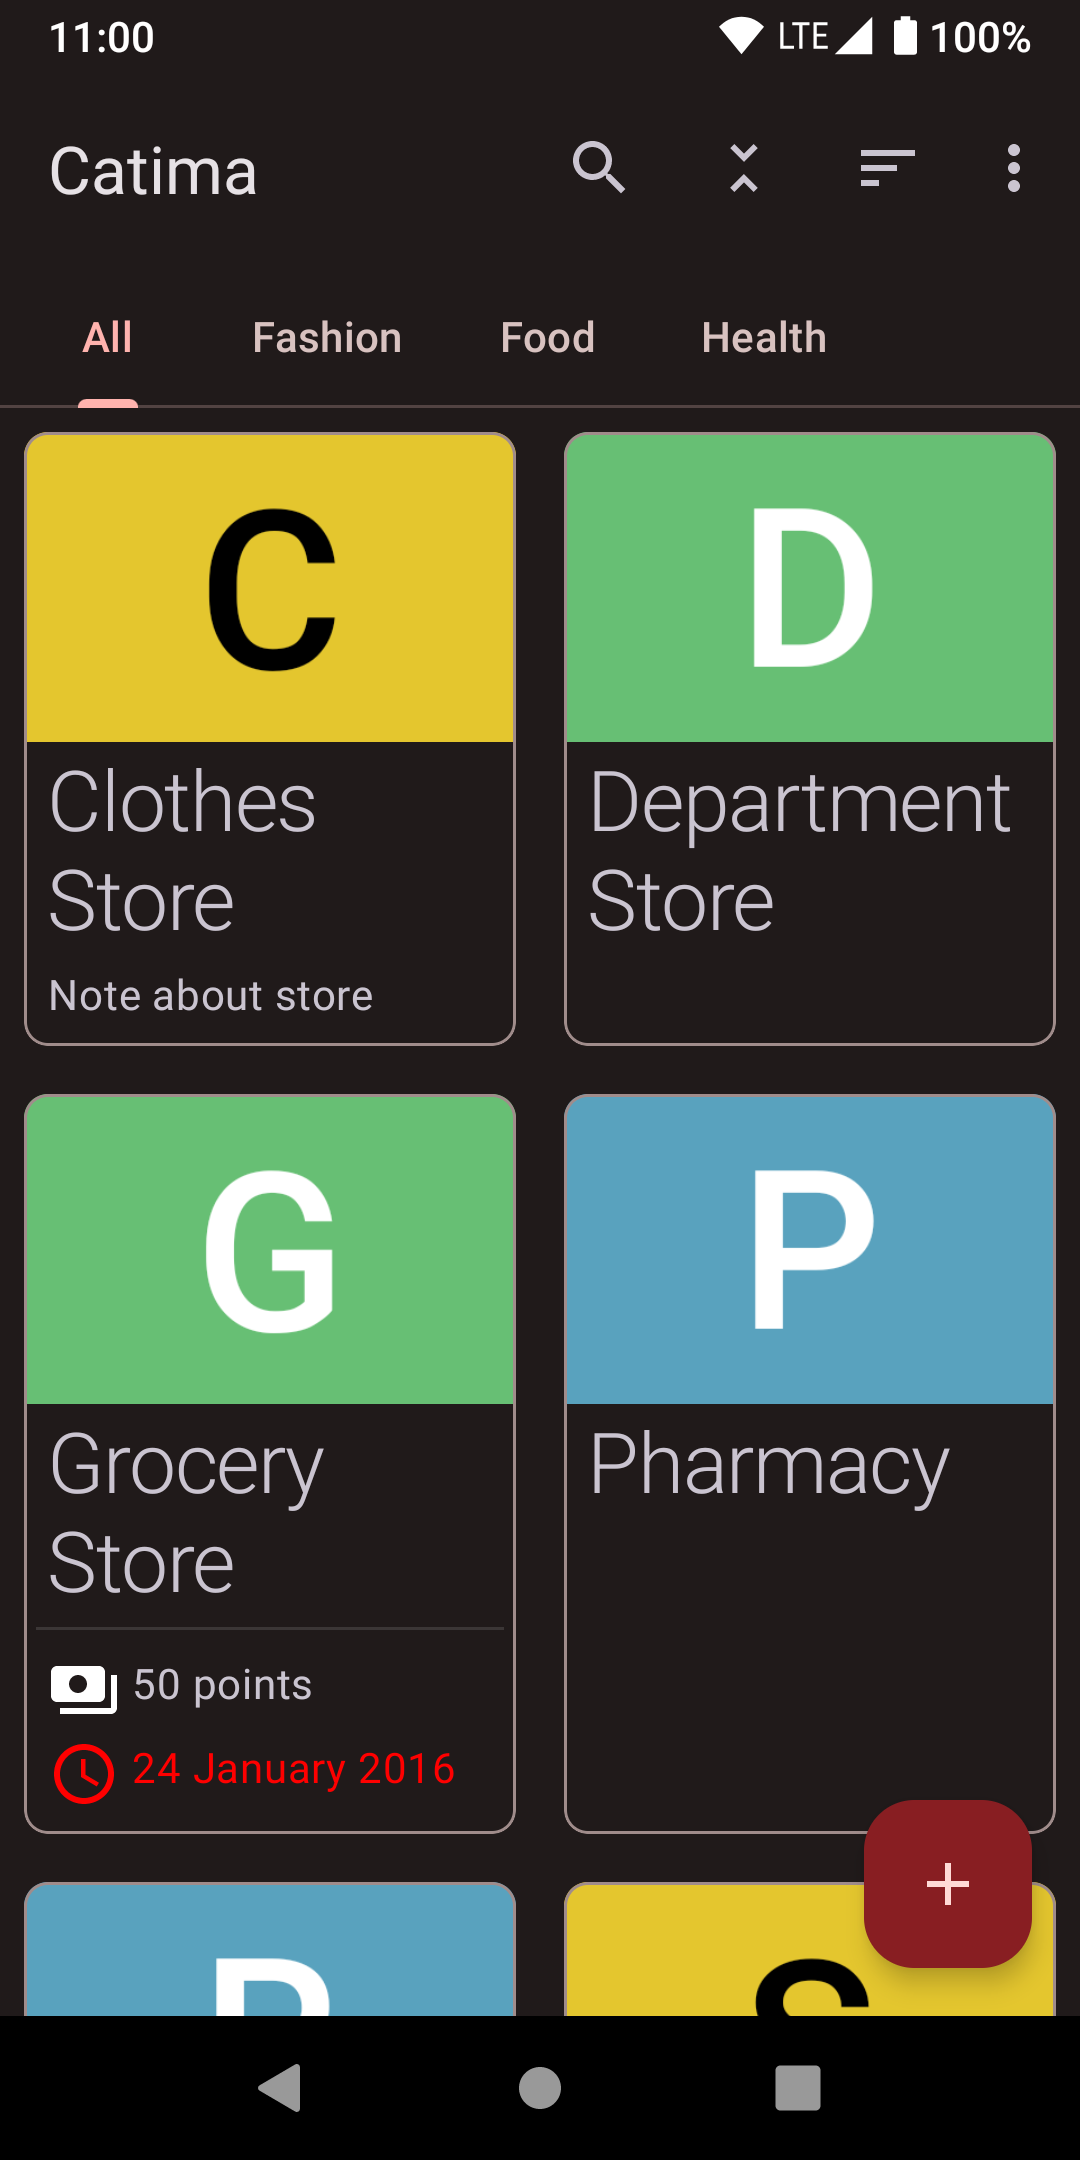
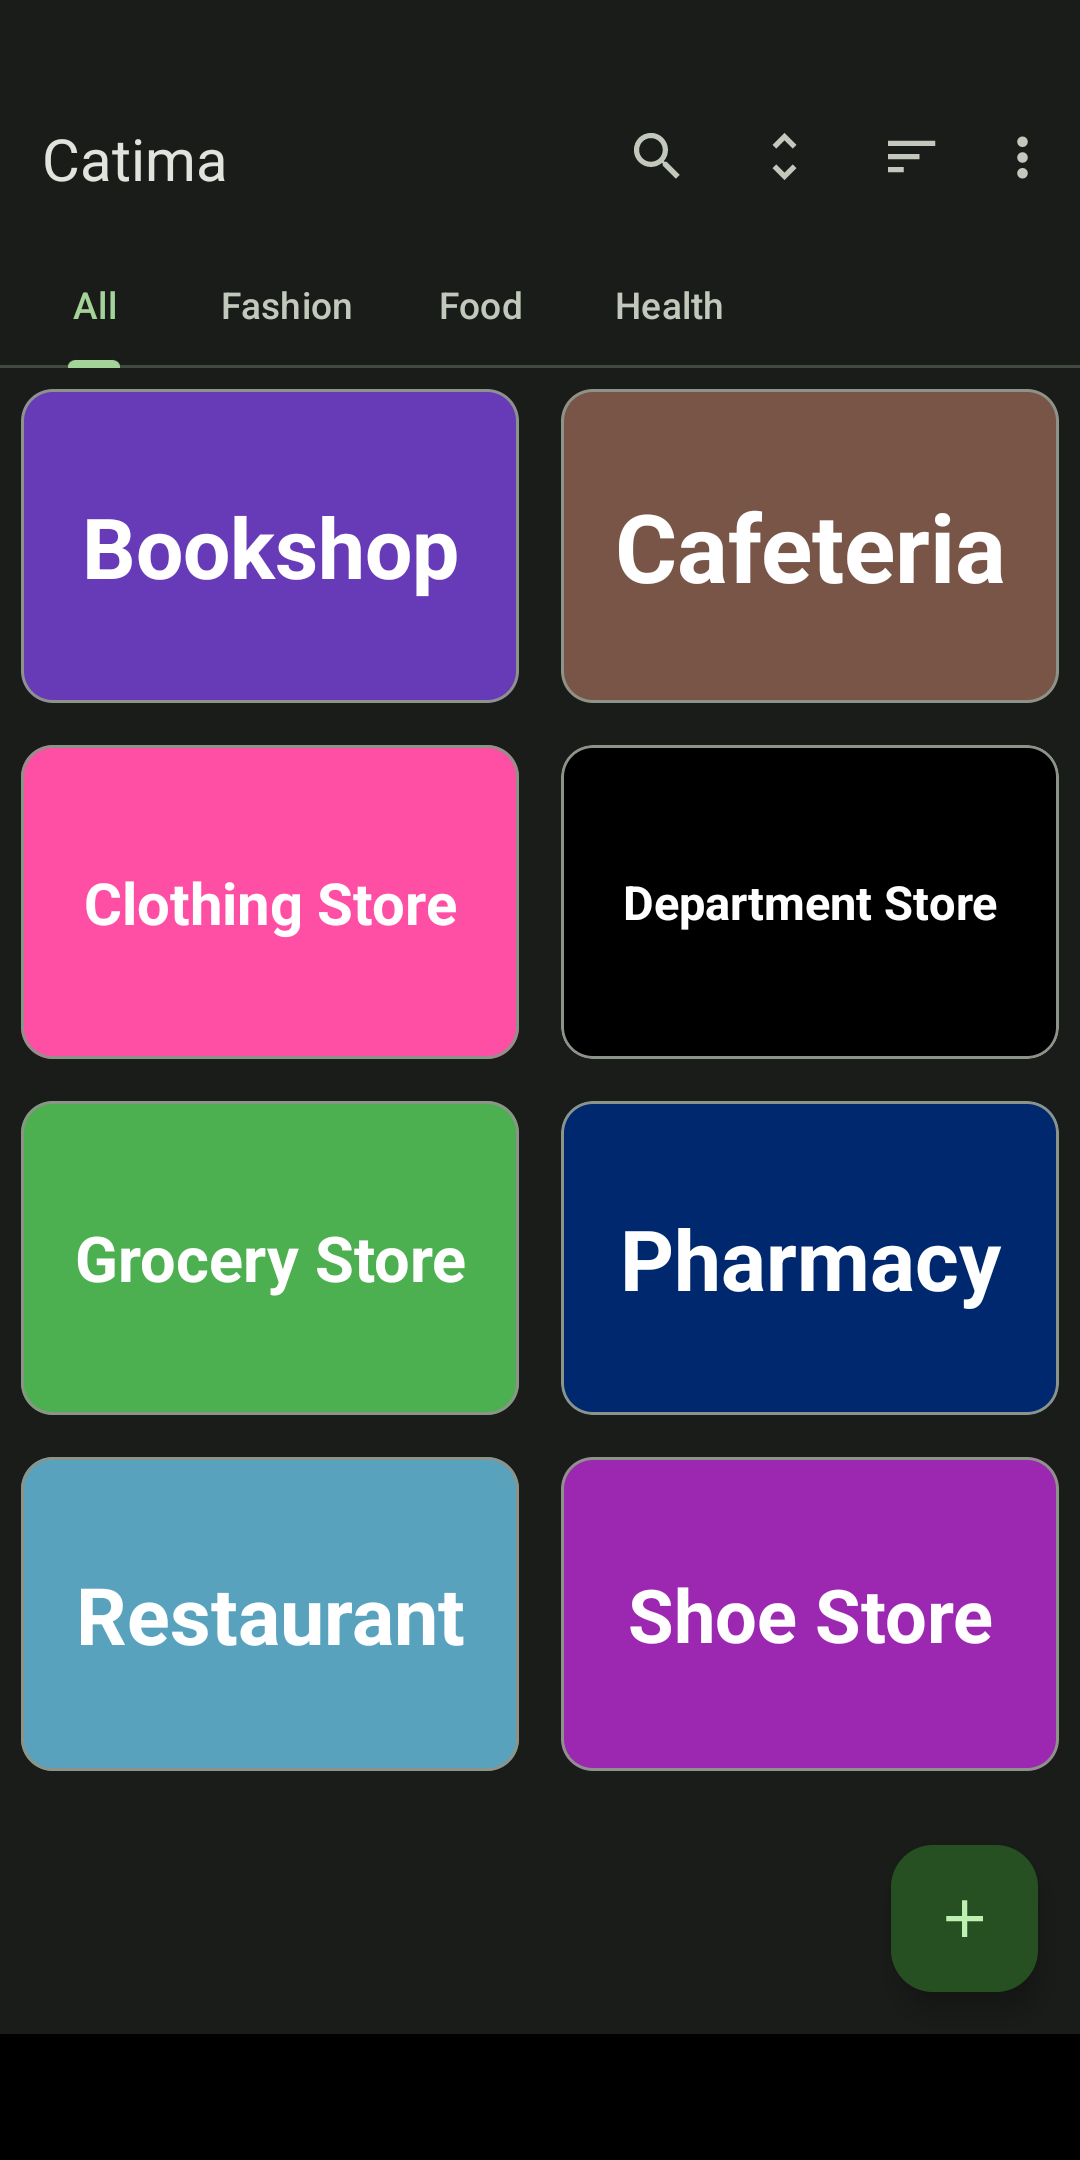
Update screenshots and CHANGELOG

diff --git a/CHANGELOG.md b/CHANGELOG.md
@@ -1,5 +1,9 @@
 # Changelog
 
+## Unreleased - 120
+
+- Complete redesign of main and loyalty card view screens
+
 ## v2.22.1 - 119
 
 - Use Material You colours on more devices (Google library update)
